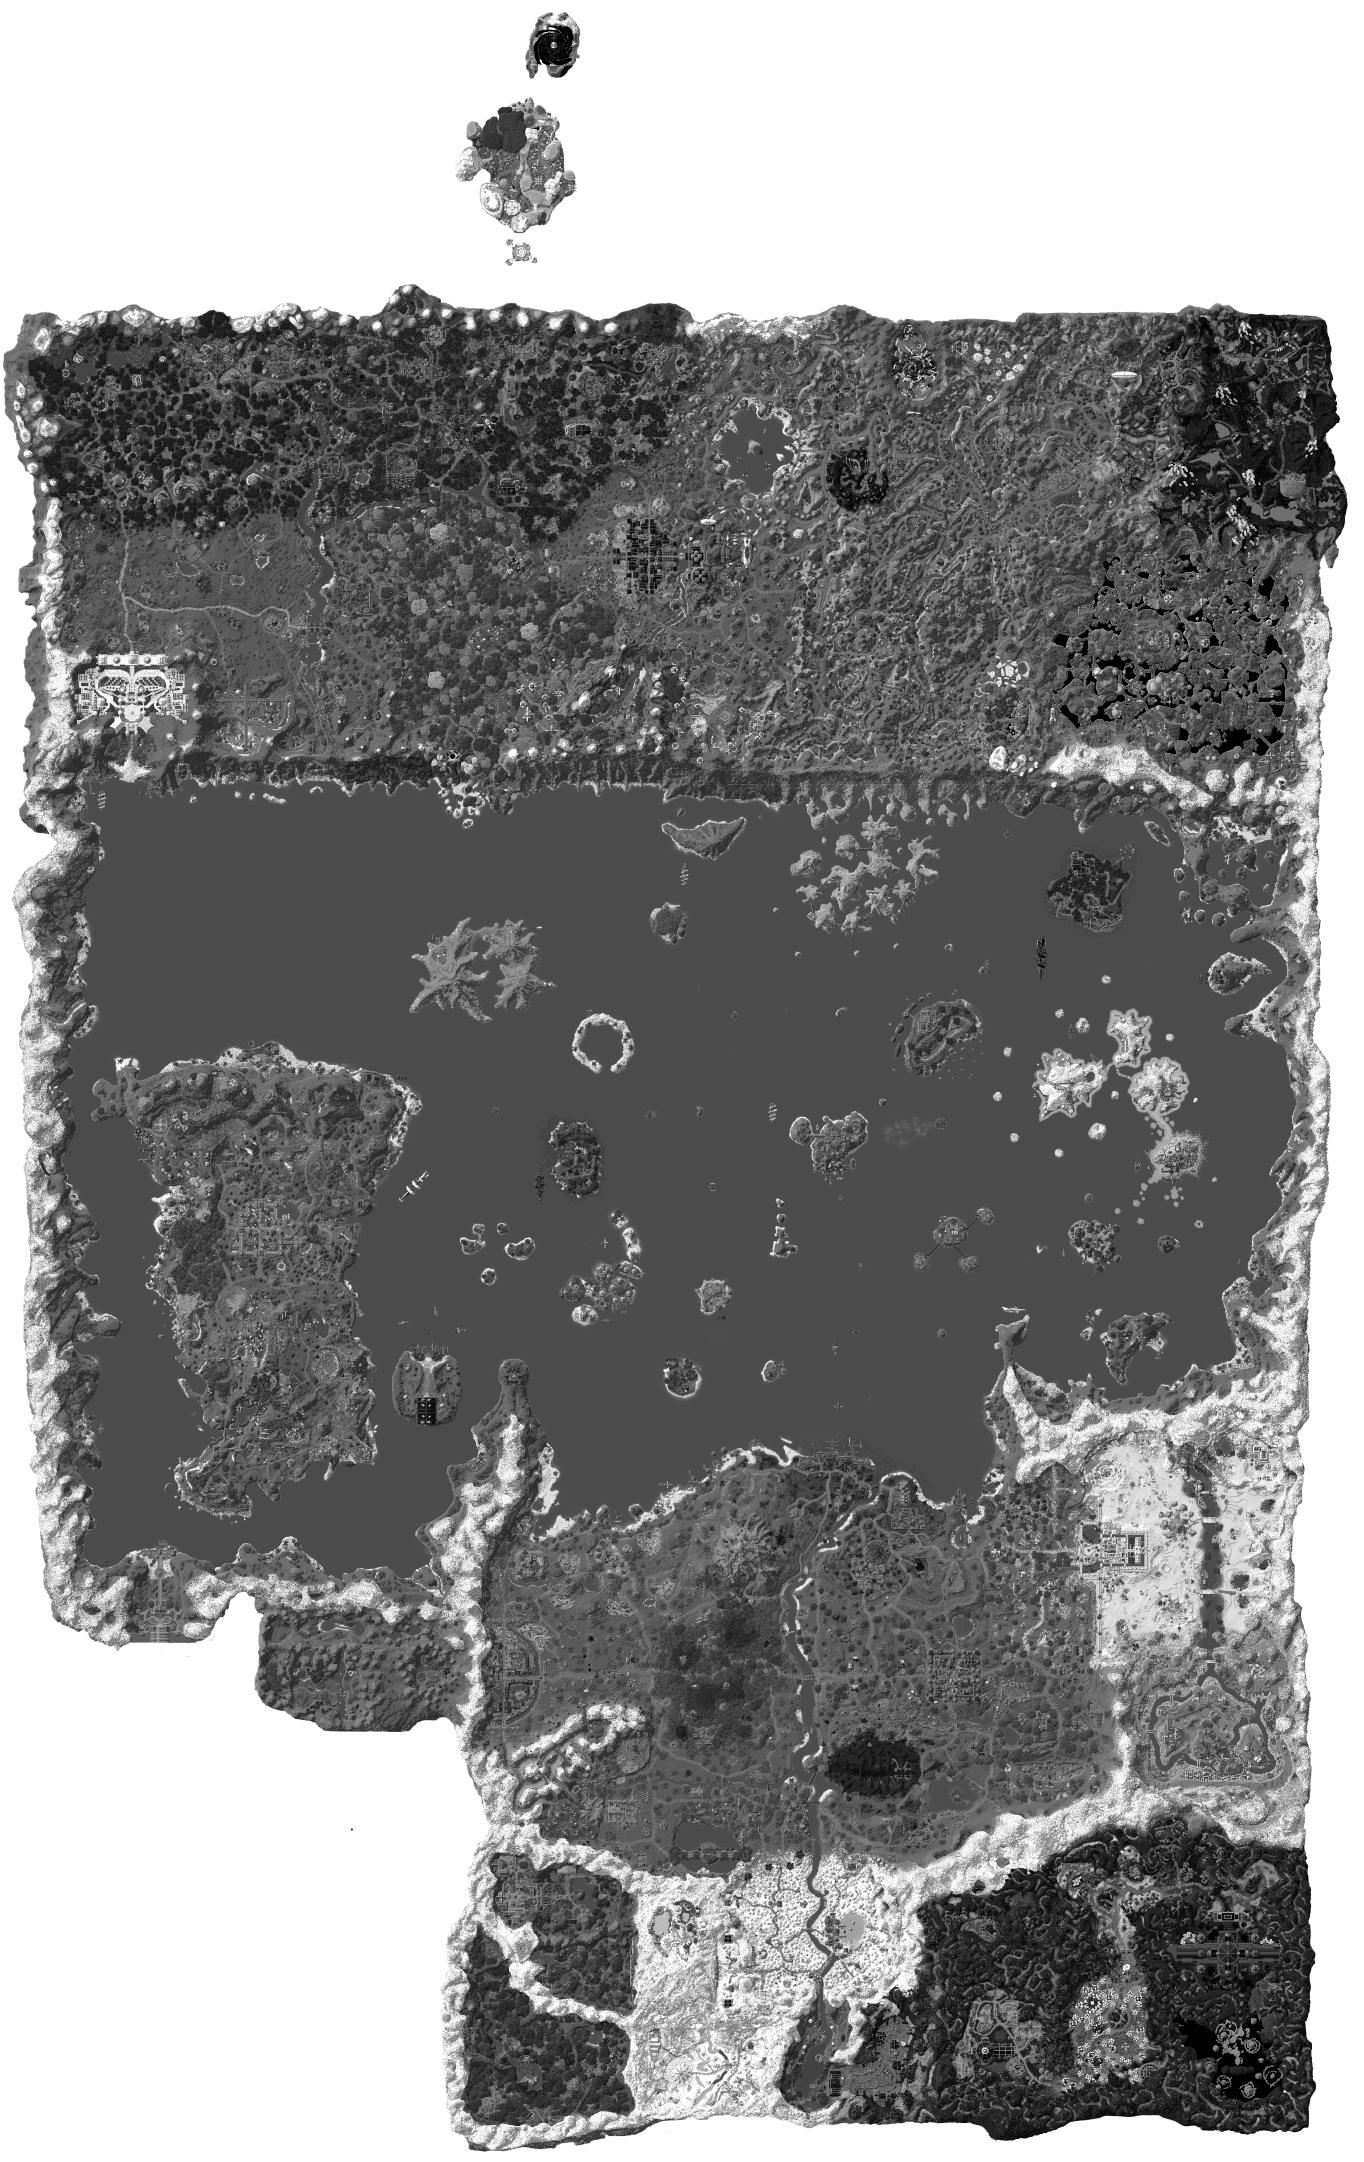
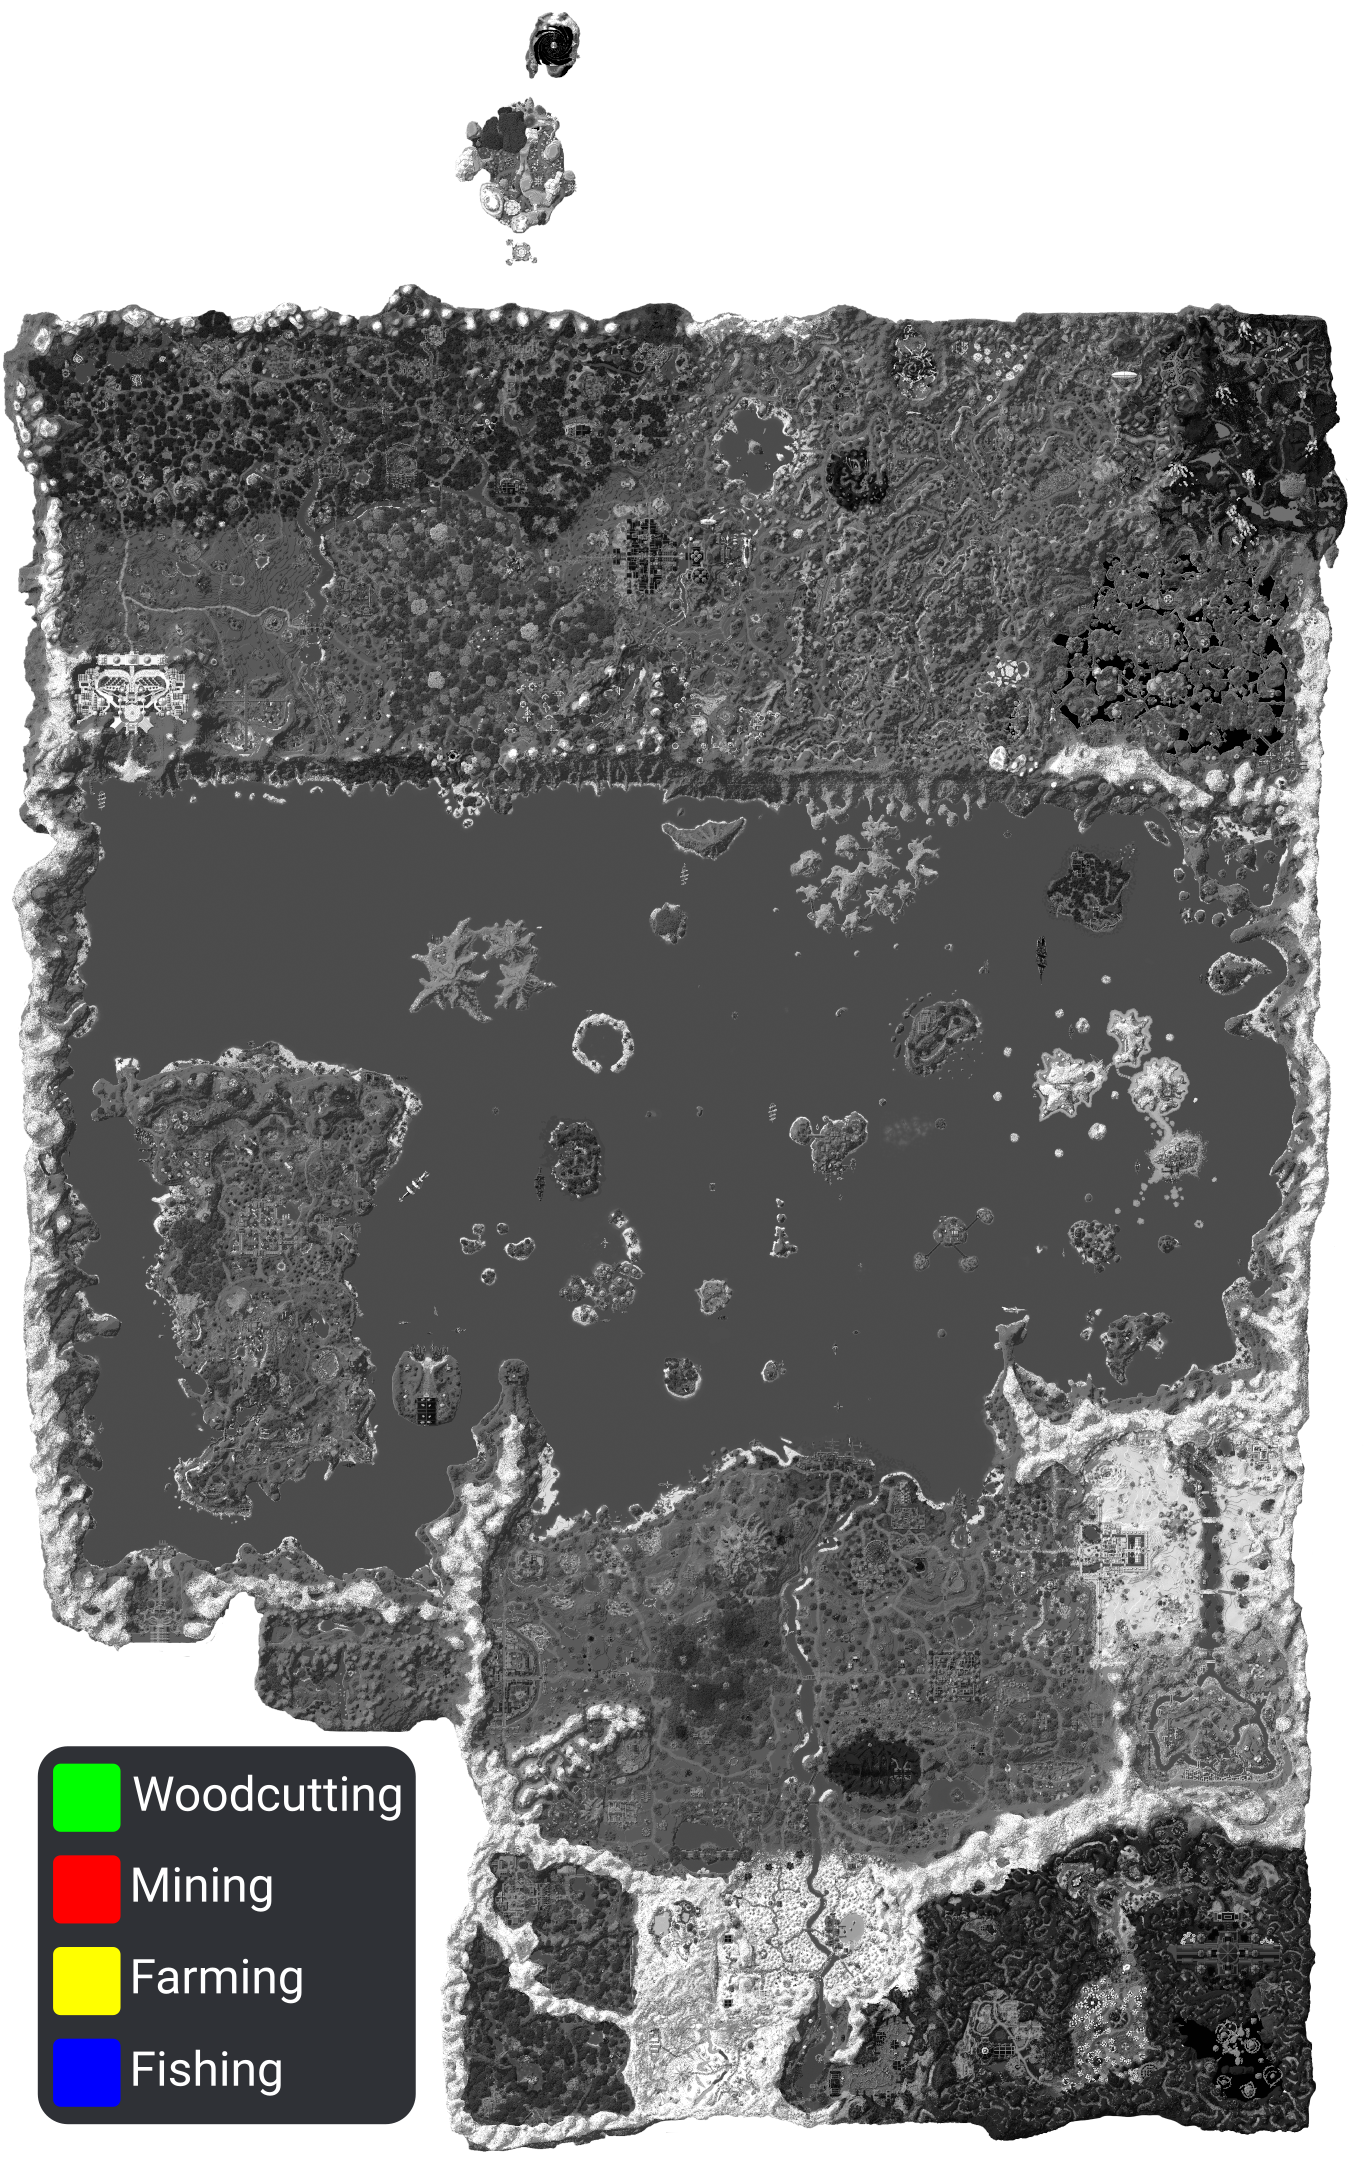
gathering changes

Changed region(s): [[0.0, 0.8057, 0.3079, 0.9917]]

diff --git a/src/commands/map.rs b/src/commands/map.rs
@@ -3,7 +3,7 @@ use std::error::Error;
 use std::sync::atomic::Ordering;
 
 use crc32fast::Hasher;
-use image::{DynamicImage, ImageBuffer, Rgba};
+use image::{DynamicImage, Rgba};
 use imageproc::drawing;
 use imageproc::rect::Rect;
 use once_cell::sync::OnceCell;
@@ -17,10 +17,7 @@ use image::io::Reader as ImageReader;
 
 use tracing::info;
 
-use crate::error::create_error_msg;
-use crate::helpers::parse_command_args;
 use crate::wynn::world::Territories;
-use crate::wynn::Gather::{self, GatherSpot};
 use crate::{BOT_NAME, BOT_VERSION, WEBP_QUALITY};
 use cached::proc_macro::cached;
 
@@ -40,27 +37,6 @@ fn get_mapbase() -> Result<image::ImageBuffer<Rgba<u8>, Vec<u8>>, Box<dyn Error 
             panic!("main-map.png invalid!!!");
         };
         MAPBASE.set(map.clone()).unwrap();
-        map
-    };
-    Ok(out)
-}
-
-/// Static for the gray image file so we don't have to load it every time
-static MAPBASE_GRAY: OnceCell<image::ImageBuffer<Rgba<u8>, Vec<u8>>> = OnceCell::new();
-
-/// Helper function for getting the base map
-fn get_mapbase_gray() -> Result<image::ImageBuffer<Rgba<u8>, Vec<u8>>, Box<dyn Error + Send + Sync>> {
-    let out = if let Some(pm) = MAPBASE_GRAY.get() {
-        pm.clone()
-    } else {
-        let map: image::ImageBuffer<Rgba<u8>, Vec<u8>> = if let DynamicImage::ImageRgba8(img) =
-            ImageReader::open("./resources/main-map-gray.png")?.decode()?
-        {
-            img
-        } else {
-            panic!("main-map-gray.png invalid!!!");
-        };
-        MAPBASE_GRAY.set(map.clone()).unwrap();
         map
     };
     Ok(out)
@@ -228,151 +204,4 @@ fn calc_x(x: f64) -> f64 {
 
 fn calc_z(z: f64) -> f64 {
     (z / 3.0) + 41.0 + 2162.0
-}
-
-#[command]
-async fn gather(ctx: &Context, msg: &Message) -> CommandResult {
-    let cmd_args = parse_command_args(msg);
-
-    // get resource types
-    let types = if let Some(s) = cmd_args.get(1) {
-        s.trim().to_uppercase()
-    } else {
-        return gather_usage(ctx, msg).await;
-    };
-
-    // get the wanted resource
-    let wanted = if let Some(s) = cmd_args.get(2) {
-        s.trim().to_uppercase()
-    } else {
-        return gather_usage(ctx, msg).await;
-    };
-
-    let processingmsg = msg
-        .channel_id
-        .send_message(&ctx.http, |m| {
-            m.embed(|e| {
-                e.title("Processing");
-                e.description(
-                    "Your request is currently processing it may take a second to complete",
-                );
-                e
-            });
-            m
-        })
-        .await?;
-
-    let spots = Gather::get_gatherspots().await?;
-
-    let mut out = drawing::Blend(get_mapbase_gray()?);
-
-    let mut count = 0;
-
-    if types.contains('W') {
-        for spot in spots.woodCutting {
-            if spot.r#type == wanted {
-                count += 1;
-                add_rect(spot, &mut out);
-            }
-        }
-    }
-    if types.contains('M') {
-        for spot in spots.mining {
-            if spot.r#type == wanted {
-                count += 1;
-                add_rect(spot, &mut out);
-            }
-        }
-    }
-    if types.contains('G') {
-        for spot in spots.farming {
-            if spot.r#type == wanted {
-                count += 1;
-                add_rect(spot, &mut out);
-            }
-        }
-    }
-    if types.contains('F') {
-        for spot in spots.fishing {
-            if spot.r#type == wanted {
-                count += 1;
-                add_rect(spot, &mut out);
-            }
-        }
-    }
-
-    if count == 0 {
-        // delete the processing message
-        processingmsg.delete(&ctx.http).await?;
-        create_error_msg(
-            ctx,
-            msg,
-            "No matches",
-            &format!(
-                "The current filters `{}`, `{}` did not match any known resources",
-                types, wanted
-            ),
-        )
-        .await;
-        return Ok(());
-    }
-
-
-    // encode image as webp
-    let img_data: Vec<u8>;
-    
-    {
-        let img = &DynamicImage::ImageRgba8(out.0);
-
-        let encoder = webp::Encoder::from_image(img)?;
-        let encoded = encoder.encode(WEBP_QUALITY.load(Ordering::Relaxed) as f32);
-        
-        img_data = (*encoded).to_vec();
-    }
-
-    // serenity wants a cow for whatever reason
-    let cow = Cow::from(img_data);
-
-    // construct reply message
-    msg.channel_id
-        .send_message(&ctx.http, |m| {
-            m.embed(|e| {
-                e.title(format!("{} matches", count));
-                e.image("attachment://map.webp");
-                e.footer(|f| {
-                    f.text(format!("{} {}", BOT_NAME, BOT_VERSION));
-                    f
-                });
-                e
-            });
-            m.add_file(AttachmentType::Bytes {
-                data: cow,
-                filename: String::from("map.webp"),
-            });
-            m
-        })
-        .await?;
-
-    // delete the processing message
-    processingmsg.delete(&ctx.http).await?;
-
-    Ok(())
-}
-
-const SPOTCOL: Rgba<u8> = Rgba([255, 0, 0, 255]);
-
-fn add_rect(spot: GatherSpot, img: &mut drawing::Blend<ImageBuffer<Rgba<u8>, Vec<u8>>>) {
-    let x = calc_x(spot.location.x) as i32;
-    let y = calc_z(spot.location.z) as i32;
-
-    let rect = Rect::at(x - 3, y - 3).of_size(5, 5);
-
-    // create the element
-    drawing::draw_filled_rect_mut(img, rect, SPOTCOL);
-}
-
-async fn gather_usage(ctx: &Context, msg: &Message) -> CommandResult {
-    create_error_msg(ctx, msg, "Invalid command arguments", "correct usage: .gather (gather type(s)) (material)\nValid types: (W)oodcutting, (M)ining, (G)rowing and (F)ishing").await;
-
-    Ok(())
 }

diff --git a/src/commands/gather.rs b/src/commands/gather.rs
@@ -1,0 +1,171 @@
+use std::{borrow::Cow, error::Error, sync::atomic::Ordering};
+
+use image::{DynamicImage, ImageBuffer, Rgba};
+use imageproc::{drawing, rect::Rect};
+use once_cell::sync::OnceCell;
+use serenity::{client::Context, framework::standard::{CommandResult, macros::command}, http::AttachmentType, model::channel::Message};
+
+use image::io::Reader as ImageReader;
+
+use crate::{BOT_NAME, BOT_VERSION, WEBP_QUALITY, error::create_error_msg, helpers::parse_command_args_raw};
+use crate::wynn::Gather::{self, GatherSpot};
+
+
+/// Static for the gray image file so we don't have to load it every time
+static MAPBASE_GRAY: OnceCell<image::ImageBuffer<Rgba<u8>, Vec<u8>>> = OnceCell::new();
+
+/// Helper function for getting the base map
+fn get_mapbase_gray() -> Result<image::ImageBuffer<Rgba<u8>, Vec<u8>>, Box<dyn Error + Send + Sync>> {
+    let out = if let Some(pm) = MAPBASE_GRAY.get() {
+        pm.clone()
+    } else {
+        let map: image::ImageBuffer<Rgba<u8>, Vec<u8>> = if let DynamicImage::ImageRgba8(img) =
+            ImageReader::open("./resources/main-map-gray.png")?.decode()?
+        {
+            img
+        } else {
+            panic!("main-map-gray.png invalid!!!");
+        };
+        MAPBASE_GRAY.set(map.clone()).unwrap();
+        map
+    };
+    Ok(out)
+}
+
+#[command]
+async fn gather(ctx: &Context, msg: &Message) -> CommandResult {
+    let cmd_args = parse_command_args_raw(msg);
+
+    // get the wanted resource
+    let wanted = if let Some(s) = cmd_args {
+        s.trim().to_uppercase()
+    } else {
+        return gather_usage(ctx, msg).await;
+    };
+
+    let processingmsg = msg
+        .channel_id
+        .send_message(&ctx.http, |m| {
+            m.embed(|e| {
+                e.title("Processing");
+                e.description(
+                    "Your request is currently processing it may take a second to complete",
+                );
+                e
+            });
+            m
+        })
+        .await?;
+
+    let spots = Gather::get_gatherspots().await?;
+
+    let mut out = drawing::Blend(get_mapbase_gray()?);
+
+    let mut count = 0;
+
+    for spot in spots.woodCutting {
+        if spot.r#type.contains(&wanted) {
+            count += 1;
+            add_rect(spot, Rgba([0,255,0,255]), &mut out);
+        }
+    }
+    for spot in spots.mining {
+        if spot.r#type.contains(&wanted) {
+            count += 1;
+            add_rect(spot, Rgba([255,0,0,255]), &mut out);
+        }
+    }
+    for spot in spots.farming {
+        if spot.r#type.contains(&wanted) {
+            count += 1;
+            add_rect(spot, Rgba([255,255,0,255]), &mut out);
+        }
+    }
+    for spot in spots.fishing {
+        if spot.r#type.contains(&wanted) {
+            count += 1;
+            add_rect(spot, Rgba([0,0,255,255]), &mut out);
+        }
+    }
+
+    if count == 0 {
+        // delete the processing message
+        processingmsg.delete(&ctx.http).await?;
+        create_error_msg(
+            ctx,
+            msg,
+            "No matches",
+            &format!(
+                "The current filter `{}` did not match any known resources",
+                wanted
+            ),
+        )
+        .await;
+        return Ok(());
+    }
+
+
+    // encode image as webp
+    let img_data: Vec<u8>;
+    
+    {
+        let img = &DynamicImage::ImageRgba8(out.0);
+
+        let encoder = webp::Encoder::from_image(img)?;
+        let encoded = encoder.encode(WEBP_QUALITY.load(Ordering::Relaxed) as f32);
+        
+        img_data = (*encoded).to_vec();
+    }
+
+    // serenity wants a cow for whatever reason
+    let cow = Cow::from(img_data);
+
+    // construct reply message
+    msg.channel_id
+        .send_message(&ctx.http, |m| {
+            m.embed(|e| {
+                e.title(format!("{} matches", count));
+                e.image("attachment://map.webp");
+                e.footer(|f| {
+                    f.text(format!("{} {}", BOT_NAME, BOT_VERSION));
+                    f
+                });
+                e
+            });
+            m.add_file(AttachmentType::Bytes {
+                data: cow,
+                filename: String::from("map.webp"),
+            });
+            m
+        })
+        .await?;
+
+    // delete the processing message
+    processingmsg.delete(&ctx.http).await?;
+
+    Ok(())
+}
+
+fn calc_x(x: f64) -> f64 {
+    (x / 3.0) - 566.333 + 1364.0
+}
+
+fn calc_z(z: f64) -> f64 {
+    (z / 3.0) + 41.0 + 2162.0
+}
+
+fn add_rect(spot: GatherSpot, color: Rgba<u8>, img: &mut drawing::Blend<ImageBuffer<Rgba<u8>, Vec<u8>>>) {
+    let x = calc_x(spot.location.x) as i32;
+    let y = calc_z(spot.location.z) as i32;
+
+    let rect = Rect::at(x - 3, y - 3).of_size(5, 5);
+
+    // create the element
+    drawing::draw_filled_rect_mut(img, rect, color);
+}
+
+async fn gather_usage(ctx: &Context, msg: &Message) -> CommandResult {
+    create_error_msg(ctx, msg, "Invalid command arguments", "correct usage: .gather (material)\nYou can also use a partial material name").await;
+
+    Ok(())
+}

diff --git a/src/main.rs b/src/main.rs
@@ -5,7 +5,7 @@ mod wynn;
 
 use std::{collections::HashSet, sync::{Arc, atomic::AtomicU8}};
 
-use commands::{id::*, map::*, owner::*, ping::*, up::*};
+use commands::{id::*, map::*, gather::*, owner::*, ping::*, up::*};
 use serenity::{
     async_trait,
     client::bridge::gateway::ShardManager,

diff --git a/src/commands/mod.rs b/src/commands/mod.rs
@@ -1,5 +1,6 @@
 pub mod id;
 pub mod map;
+pub mod gather;
 pub mod owner;
 pub mod ping;
 pub mod up;
